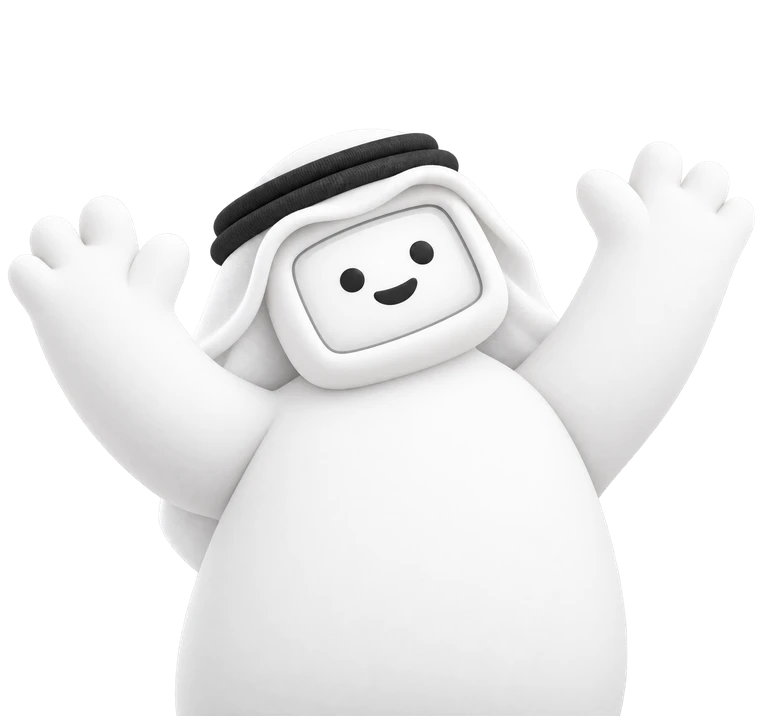
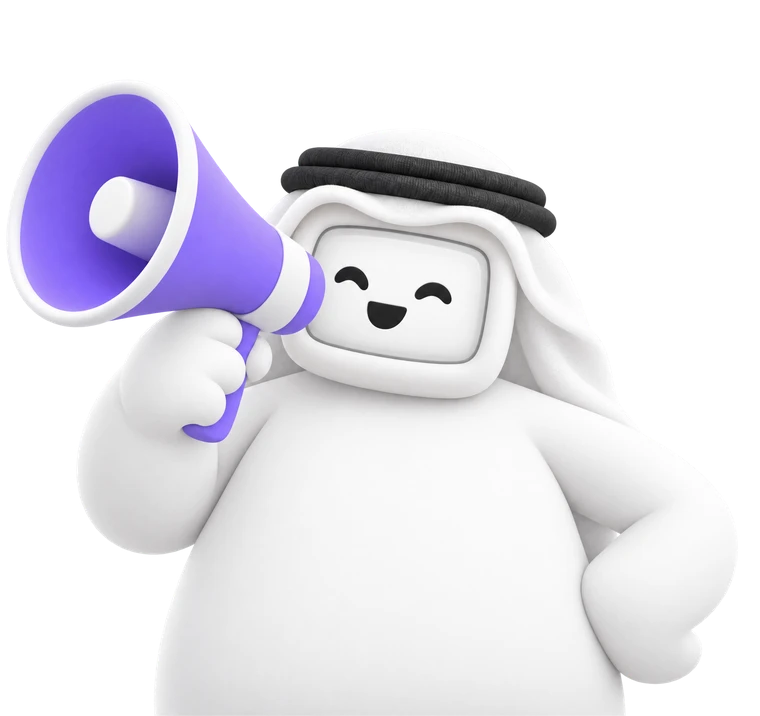
Services preview: one card in the new, ours-not-Holo layout
- Text leaves the card: a dark visual panel, and under it on the light
  section a plain title and a one-line description, aligned right like
  the rest of the site.
- The key words in the description get a highlighter in the card's
  colour (.hl), a lighter sibling of the hero's «كاملة» sticker.
- Ads panel shows our own idea: today's budget split across Snapchat,
  TikTok, Meta and Google, the winner's column growing and the weakest
  shrinking. Soft violet glow under the mascot; no tilt; on hover the
  card lifts and the mascot peeks up a little.
- New 3D pose (shouting into a megaphone, hand on hip). The previous
  arms-up art is kept in art/unused/services-lively.
- Only this card renders for now, for review.

Claude-Session: https://claude.ai/code/session_01HEToeVJCXjzhD9Jpw8sRiS

diff --git a/src/components/services/Services.tsx b/src/components/services/Services.tsx
@@ -1,20 +1,33 @@
-import { useRef, type ComponentType } from "react";
+import { useRef, type ComponentType, type CSSProperties, type ReactNode } from "react";
 import { gsap, reduced, useGSAP } from "../../lib/gsap";
 import { Ink } from "../Ink";
 import { Container } from "../layout";
-import { AdsScene, ArrowUp, Bars, Heart, Megaphone, ReportsScene, SeoScene, SocialScene, Tile } from "./scenes";
+import { BudgetScene } from "./scenes";
 
 /*
- * أربع كروت تبان كلها مرة وحدة: أيقونة وعنوان قصير، تحته واجهة من المنتج، وتحتها الشخصية تتفاعل معها
- * وطالعة من حافة الكرت. الكروت غامقة (نفس هوية الهيرو) على القسم الفاتح، وكل كرت مايل بزاوية خفيفة.
+ * كل خدمة: لوحة غامقة فيها واجهة من منتجنا والشخصية طالعة من حافتها، وتحت اللوحة على الخلفية الفاتحة
+ * العنوان والوصف. الكلمة المهمة في الوصف عليها قلم تظليل بلون الخدمة (.hl)، ونفس اللون يتوهّج خفيف تحت الشخصية.
  */
-type Card = { title: string; tile: string; Icon: ComponentType; Scene: ComponentType; art: string; tilt: string };
+type Service = {
+  title: string;
+  text: ReactNode;
+  accent: string; // لون الواجهة
+  hl: string; // لون قلم التظليل
+  glow: string; // التوهّج تحت الشخصية
+  Scene: ComponentType<{ accent: string }>;
+  art: string;
+};
 
-const CARDS: Card[] = [
-  { title: "إعلانات تبيع.", tile: "#7c5cff", Icon: Megaphone, Scene: AdsScene, art: "/services/ads.webp", tilt: "lg:[--r:-3deg] lg:[--y:10px]" },
-  { title: "حسابات تكبر.", tile: "#ffe1ea", Icon: Heart, Scene: SocialScene, art: "/services/social.webp", tilt: "lg:[--r:2deg] lg:[--y:0px]" },
-  { title: "سيو يتصدّر.", tile: "#fde047", Icon: ArrowUp, Scene: SeoScene, art: "/services/seo.webp", tilt: "lg:[--r:-2deg] lg:[--y:16px]" },
-  { title: "تقارير توصلك.", tile: "#25d366", Icon: Bars, Scene: ReportsScene, art: "/services/reports.webp", tilt: "lg:[--r:3deg] lg:[--y:4px]" },
+const SERVICES: Service[] = [
+  {
+    title: "الإعلانات الممولة",
+    text: <>نطلق حملاتك في سناب وتيك توك وميتا وقوقل، ونحسّنها <mark className="hl">كل ربع ساعة</mark>.</>,
+    accent: "#8b6cff",
+    hl: "#dcd2ff",
+    glow: "rgb(124 92 255 / 0.38)",
+    Scene: BudgetScene,
+    art: "/services/ads.webp",
+  },
 ];
 
 export function Services() {
@@ -23,11 +36,11 @@ export function Services() {
   // الكروت تطلع ورا بعض لما توصل القسم
   useGSAP(() => {
     if (reduced()) return;
-    gsap.set("[data-card]", { opacity: 0, yPercent: 8 });
+    gsap.set("[data-card]", { opacity: 0, y: 32 });
     const io = new IntersectionObserver(([e]) => {
       if (!e.isIntersecting) return;
       io.disconnect();
-      gsap.to("[data-card]", { opacity: 1, yPercent: 0, duration: 0.9, stagger: 0.09, ease: "power3.out" });
+      gsap.to("[data-card]", { opacity: 1, y: 0, duration: 0.9, stagger: 0.09, ease: "power3.out", clearProps: "transform" });
     }, { threshold: 0.2 });
     io.observe(ref.current!);
     return () => io.disconnect();
@@ -41,21 +54,20 @@ export function Services() {
         </h2>
       </Container>
 
-      {/* في الجوال والتابلت تتسحب بالإصبع، ومن 1024 الأربعة جنب بعض.
-          الميلان من --r و--y عشان التحويم يقدر يعدّله، وGSAP يحرّك yPercent بس فما يلمسه */}
-      <ul className="svc-track mt-12 flex snap-x snap-mandatory gap-4 overflow-x-auto px-(--edge) pb-6 pt-3 scroll-px-(--edge) [scrollbar-width:none] lg:grid lg:grid-cols-4 lg:gap-5 lg:overflow-visible [&::-webkit-scrollbar]:hidden">
-        {CARDS.map(({ title, tile, Icon, Scene, art, tilt }) => (
-          <li key={title} data-card className={`shrink-0 snap-center [--r:0deg] [--y:0px] ${tilt}`}>
-            <div className="relative aspect-[5/8] w-[72vw] max-w-[20rem] overflow-hidden rounded-[28px] bg-night ring-1 ring-white/5 [transform:translateY(var(--y))_rotate(var(--r))] shadow-[0_24px_48px_-24px_rgb(17_19_24/0.55)] transition-transform duration-500 ease-lift hover:[transform:translateY(-6px)_rotate(0deg)] sm:w-[44vw] lg:w-auto lg:max-w-none">
-              <div className="flex flex-col items-center px-5 pt-6 text-center">
-                <Tile bg={tile}><Icon /></Tile>
-                <h3 className="mt-4 text-[1.375rem] font-bold text-white">{title}</h3>
+      {/* في الجوال والتابلت تتسحب بالإصبع، ومن 1024 الأربعة جنب بعض */}
+      <ul className="svc-track mt-10 flex snap-x snap-mandatory gap-4 overflow-x-auto px-(--edge) pb-4 pt-2 scroll-px-(--edge) [scrollbar-width:none] lg:grid lg:grid-cols-4 lg:gap-6 lg:overflow-visible [&::-webkit-scrollbar]:hidden">
+        {SERVICES.map(({ title, text, accent, hl, glow, Scene, art }) => (
+          <li key={title} data-card className="group w-[72vw] max-w-[20rem] shrink-0 snap-center sm:w-[44vw] lg:w-auto lg:max-w-none" style={{ "--hl": hl } as CSSProperties}>
+            <div className="relative aspect-[6/7] overflow-hidden rounded-[24px] bg-night shadow-[0_22px_44px_-26px_rgb(17_19_24/0.6)] transition-transform duration-500 ease-lift group-hover:-translate-y-1">
+              <div aria-hidden className="absolute inset-0" style={{ background: `radial-gradient(75% 55% at 50% 100%, ${glow}, transparent)` }} />
+              <div className="relative pt-5">
+                <Scene accent={accent} />
               </div>
-              <div className="mt-4">
-                <Scene />
-              </div>
-              <img src={art} width={760} height={716} alt="" loading="lazy" decoding="async" draggable={false} className="pointer-events-none absolute bottom-0 left-1/2 w-[86%] max-w-none -translate-x-1/2 select-none" />
+              {/* الشخصية تطلّ أكثر لما تمرّ على الكرت */}
+              <img src={art} width={760} height={716} alt="" loading="lazy" decoding="async" draggable={false} className="pointer-events-none absolute bottom-0 left-1/2 w-[70%] max-w-none -translate-x-1/2 select-none transition-transform duration-500 ease-lift group-hover:-translate-y-2" />
             </div>
+            <h3 className="mt-5 text-[1.125rem] font-bold">{title}</h3>
+            <p className="mt-1.5 text-[0.9375rem] leading-[1.8] text-ink-soft">{text}</p>
           </li>
         ))}
       </ul>

diff --git a/src/components/services/scenes.tsx b/src/components/services/scenes.tsx
@@ -3,6 +3,8 @@
  * الأرقام أمثلة توضيحية. كلها على كرت غامق، فألوانها ألوان الوضع الليلي.
  */
 
+import { Google, Meta, Snapchat, TikTok } from "../logos";
+
 /* أيقونات العناوين: مربع ملوّن ورمز بسيط */
 export function Tile({ bg, children }: { bg: string; children: React.ReactNode }) {
   return (
@@ -114,6 +116,42 @@ export function ReportsScene() {
           <span className="shrink-0 text-[0.5625rem] text-white/55">9:04 ص</span>
         </p>
       </div>
+    </div>
+  );
+}
+
+/** الإعلانات: توزيع الميزانية على المنصات، والرابحة عمودها يكبر وأضعفها ينقص (هذا التحسين كل ربع ساعة) */
+export function BudgetScene({ accent }: { accent: string }) {
+  const cols = [
+    { L: Snapchat, n: "سناب شات", v: 42, move: "up" },
+    { L: TikTok, n: "تيك توك", v: 28 },
+    { L: Meta, n: "ميتا", v: 20 },
+    { L: Google, n: "قوقل", v: 10, move: "down" },
+  ];
+  return (
+    <div className="mx-auto w-[80%] rounded-2xl bg-[#1b1e25] px-3.5 pb-3 pt-3 text-white ring-1 ring-white/10 shadow-[0_18px_40px_-16px_rgb(0_0_0/0.7)]">
+      <div className="flex items-center justify-between">
+        <span className="text-[0.75rem] font-semibold">توزيع الميزانية</span>
+        <span className="text-[0.6875rem] text-white/45">اليوم</span>
+      </div>
+      <ul className="mt-2.5 grid grid-cols-4 gap-3">
+        {cols.map(({ L, n, v, move }) => (
+          <li key={n} className="flex flex-col items-center gap-1">
+            <span className="flex items-center gap-0.5 text-[0.625rem] tabular-nums text-white/70">
+              {move && (
+                <svg viewBox="0 0 10 10" aria-hidden className={`size-2 ${move === "up" ? "text-[#4ade80]" : "rotate-180 text-[#f87171]"}`}>
+                  <path d="M5 2 9 7H1z" fill="currentColor" />
+                </svg>
+              )}
+              {v}٪
+            </span>
+            <span className="flex h-10 w-full items-end">
+              <span className="w-full rounded-t-md" style={{ height: `${(v / 42) * 100}%`, background: move === "up" ? accent : "rgb(255 255 255 / 0.22)" }} />
+            </span>
+            <span className="mt-1 grid size-6 place-items-center rounded-md bg-white"><L className="size-4" /></span>
+          </li>
+        ))}
+      </ul>
     </div>
   );
 }

diff --git a/src/index.css b/src/index.css
@@ -167,3 +167,14 @@ body {
     --edge: max(var(--gutter), calc((100% - var(--container-page)) / 2 + var(--gutter)));
   }
 }
+
+/* قلم تظليل على الكلمة المهمة في وصف الكرت، بلون الكرت (--hl). علامتنا في الأوصاف، أخف من ملصق «كاملة» في العناوين */
+.hl {
+  background: linear-gradient(transparent 50%, var(--hl) 50%, var(--hl) 92%, transparent 92%);
+  padding-inline: 0.12em;
+  margin-inline: -0.06em;
+  -webkit-box-decoration-break: clone;
+  box-decoration-break: clone;
+  color: var(--color-night);
+  font-weight: 600;
+}
